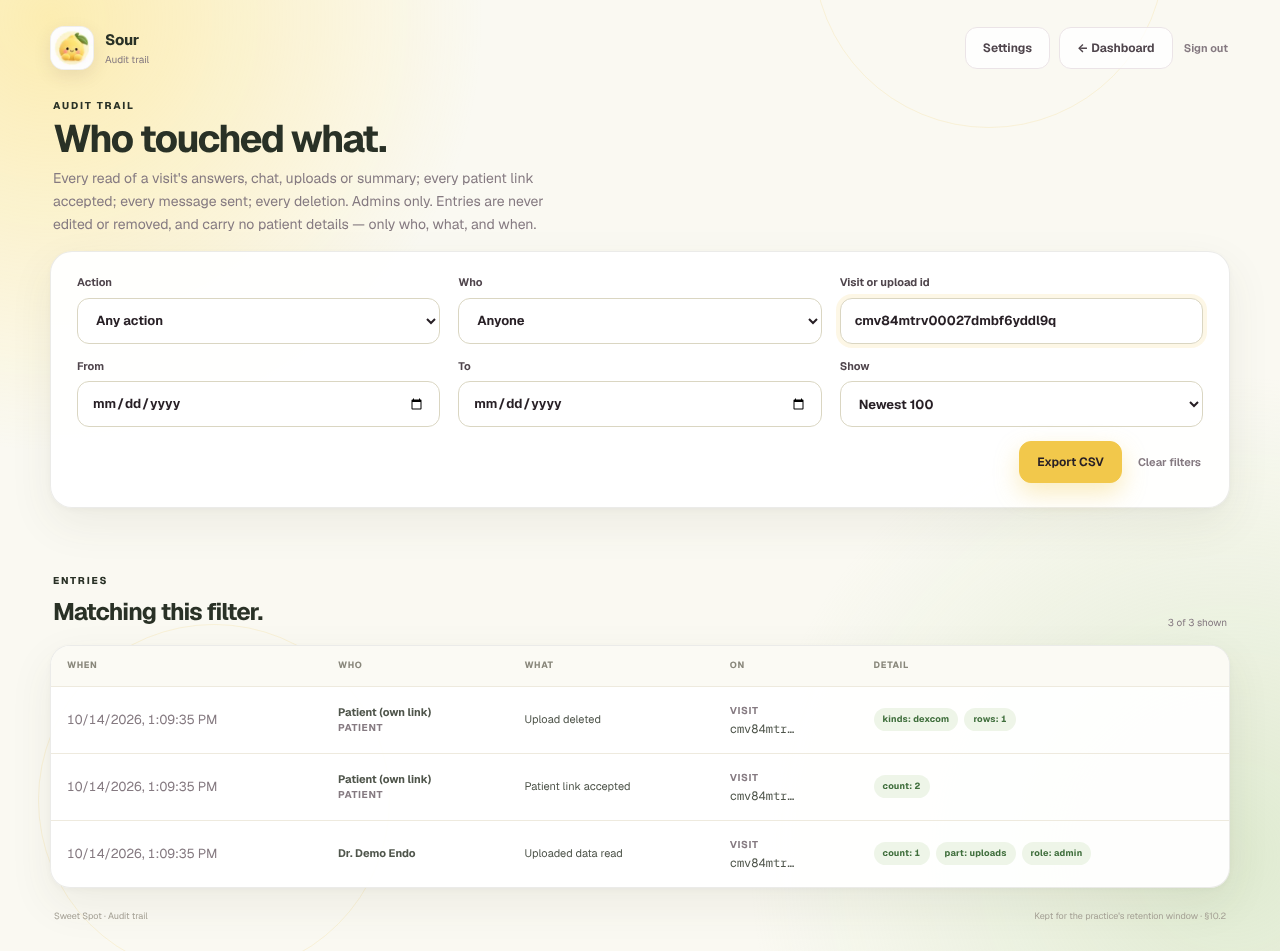
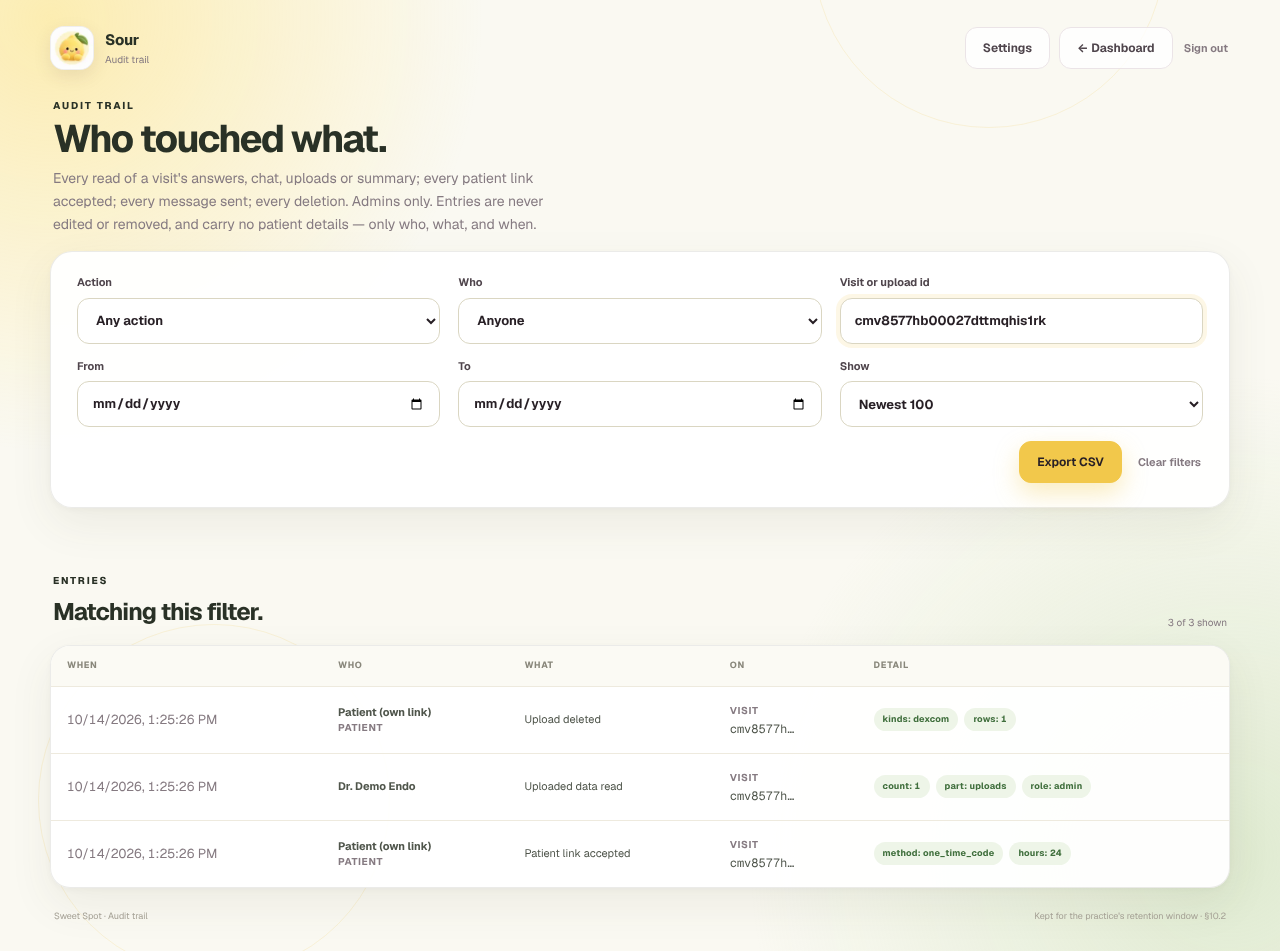
T12: screenshots and their notes from the post-merge check run
Claude-Session: https://claude.ai/code/session_01Ju7MeD38FVVVUiYG3uLuw3

diff --git a/docs/screenshots/tickets/t12/README.md b/docs/screenshots/tickets/t12/README.md
@@ -1,9 +1,9 @@
 # T12 screenshots
 
 From `bash scripts/agent-check.sh` on branch `t12-audit-log`. Every row in these shots was produced by doing
-the thing, not by writing a row: `e2e/audit.spec.ts` books a visit as the signed-in admin, opens the patient's
-own link to upload a Dexcom export, reads the visit back as the clinician, and then deletes the upload over
-the same link. The other specs in the run share the practice, so the unfiltered page shows their rows too.
+the thing, not by writing a row: `e2e/audit.spec.ts` books a visit as the signed-in admin, verifies the
+patient's link with the six-digit code from their own inbox (T08), uploads a Dexcom export over it, reads the
+visit back as the clinician, and then deletes the upload. The other specs in the run share the practice, so the unfiltered page shows their rows too.
 
 The ids are cuids from a throwaway database and the patient details are the suite's own (`Audit Patient`,
 `Sam Sample`) — which is the point of the last assertions in that spec: neither appears anywhere in these
@@ -11,7 +11,7 @@ tables, or in the CSV the Export button hands over.
 
 | File | What it shows |
 |---|---|
-| `desktop-provider-audit.png` | The new screen (§4.8, §10.2). Filters across the top — action, who, a visit or upload id, a date range, how many — then the trail, newest first. A row is a time, a person, what they did, the thing they did it to and a detail with no patient in it. `count: 2` on a link row is two uses of one invite link inside the coalescing window; `part: uploads` is the one part of the visit the bundle actually carried. |
+| `desktop-provider-audit.png` | The new screen (§4.8, §10.2). Filters across the top — action, who, a visit or upload id, a date range, how many — then the trail, newest first. A row is a time, a person, what they did, the thing they did it to and a detail with no patient in it. `method: one_time_code` is how the patient proved the link was theirs; `part: uploads` is the one part of the visit the bundle actually carried; `count` on a read is how many identical reads inside a minute that row stands for. |
 | `mobile-provider-audit.png` | The same at phone width, viewport only. The filters stack and the table stops being a table: each row becomes a labelled card, the way the users table does in settings. `Settings` drops out of the header, because the phone hides the first button in that row and the way back to the dashboard is what matters there. |
 | `desktop-provider-audit-visit.png` | Filtered to the one visit the spec created: the link accepted, the clinician's read of the uploads, and the patient's deletion. Three rows, and the heading changes to say the list is a filtered one. |
 | `mobile-provider-audit-visit.png` | The same three rows stacked. |
